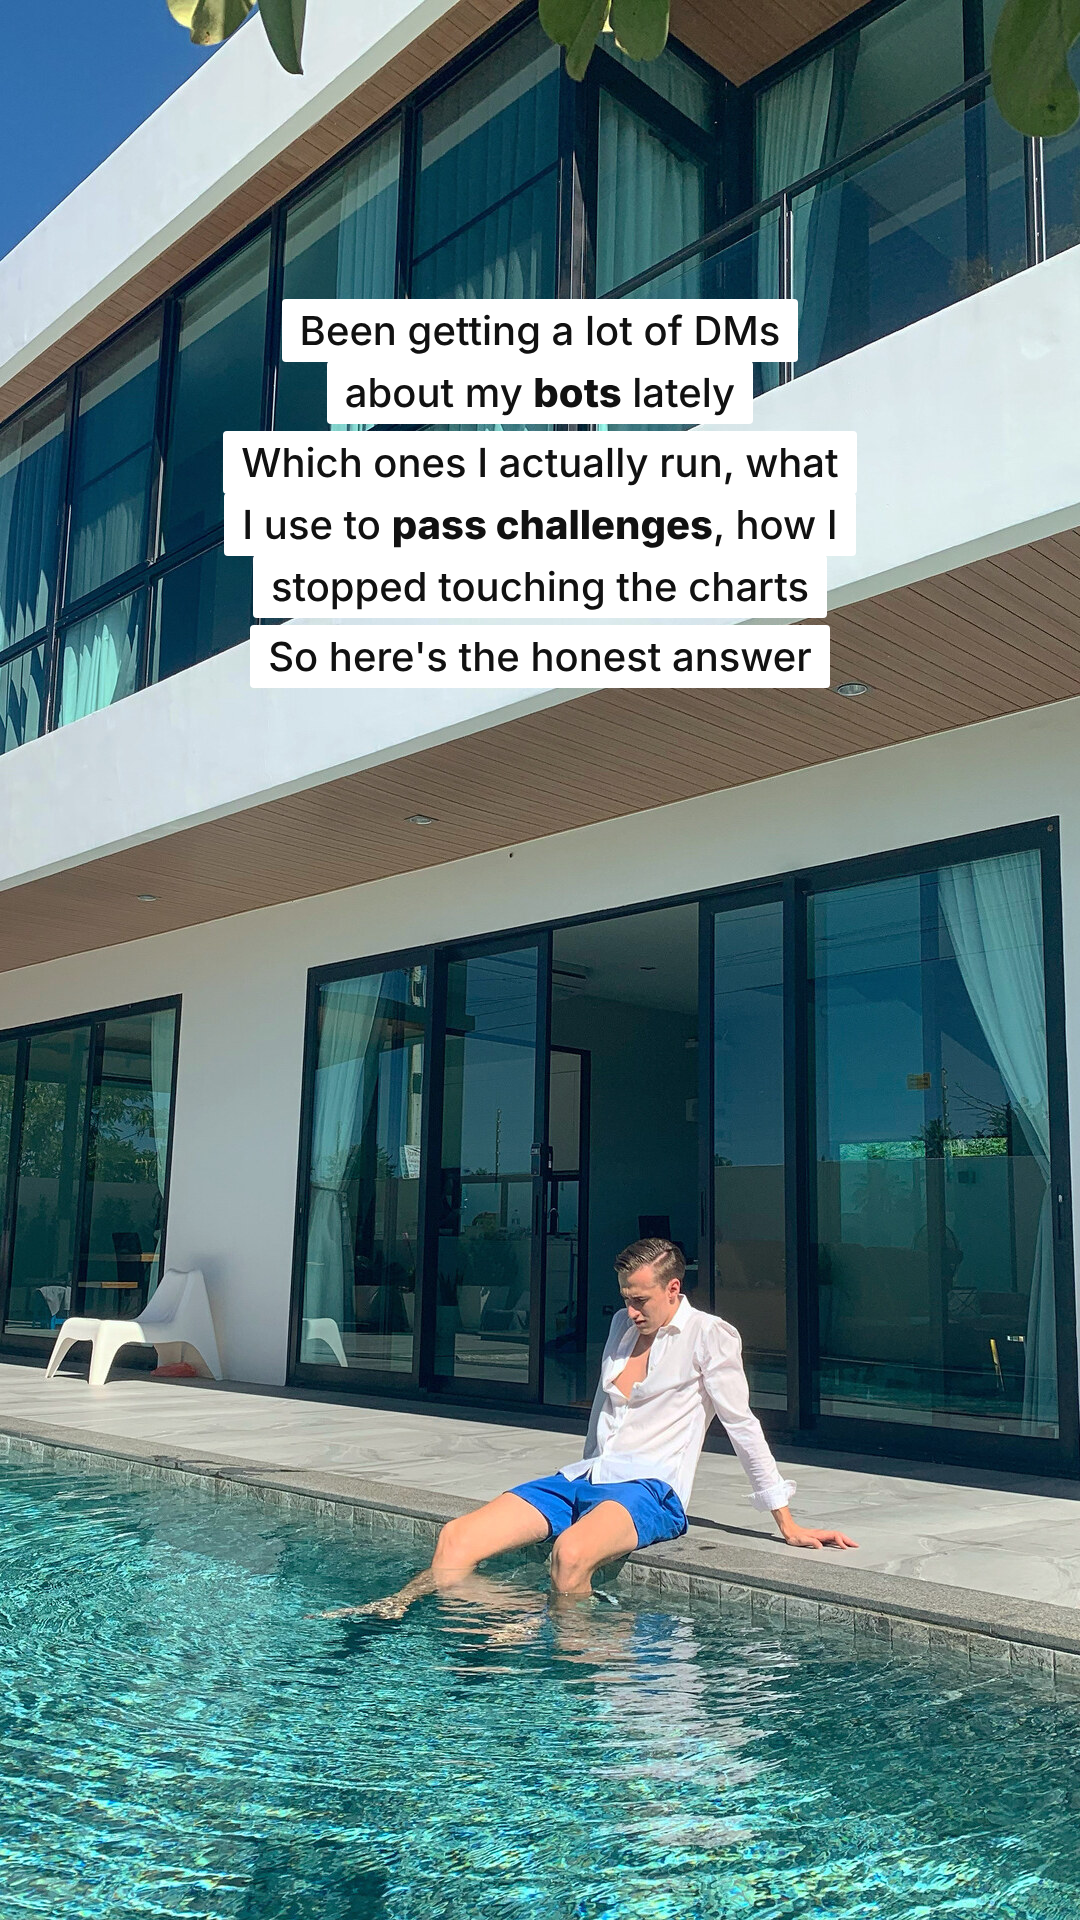
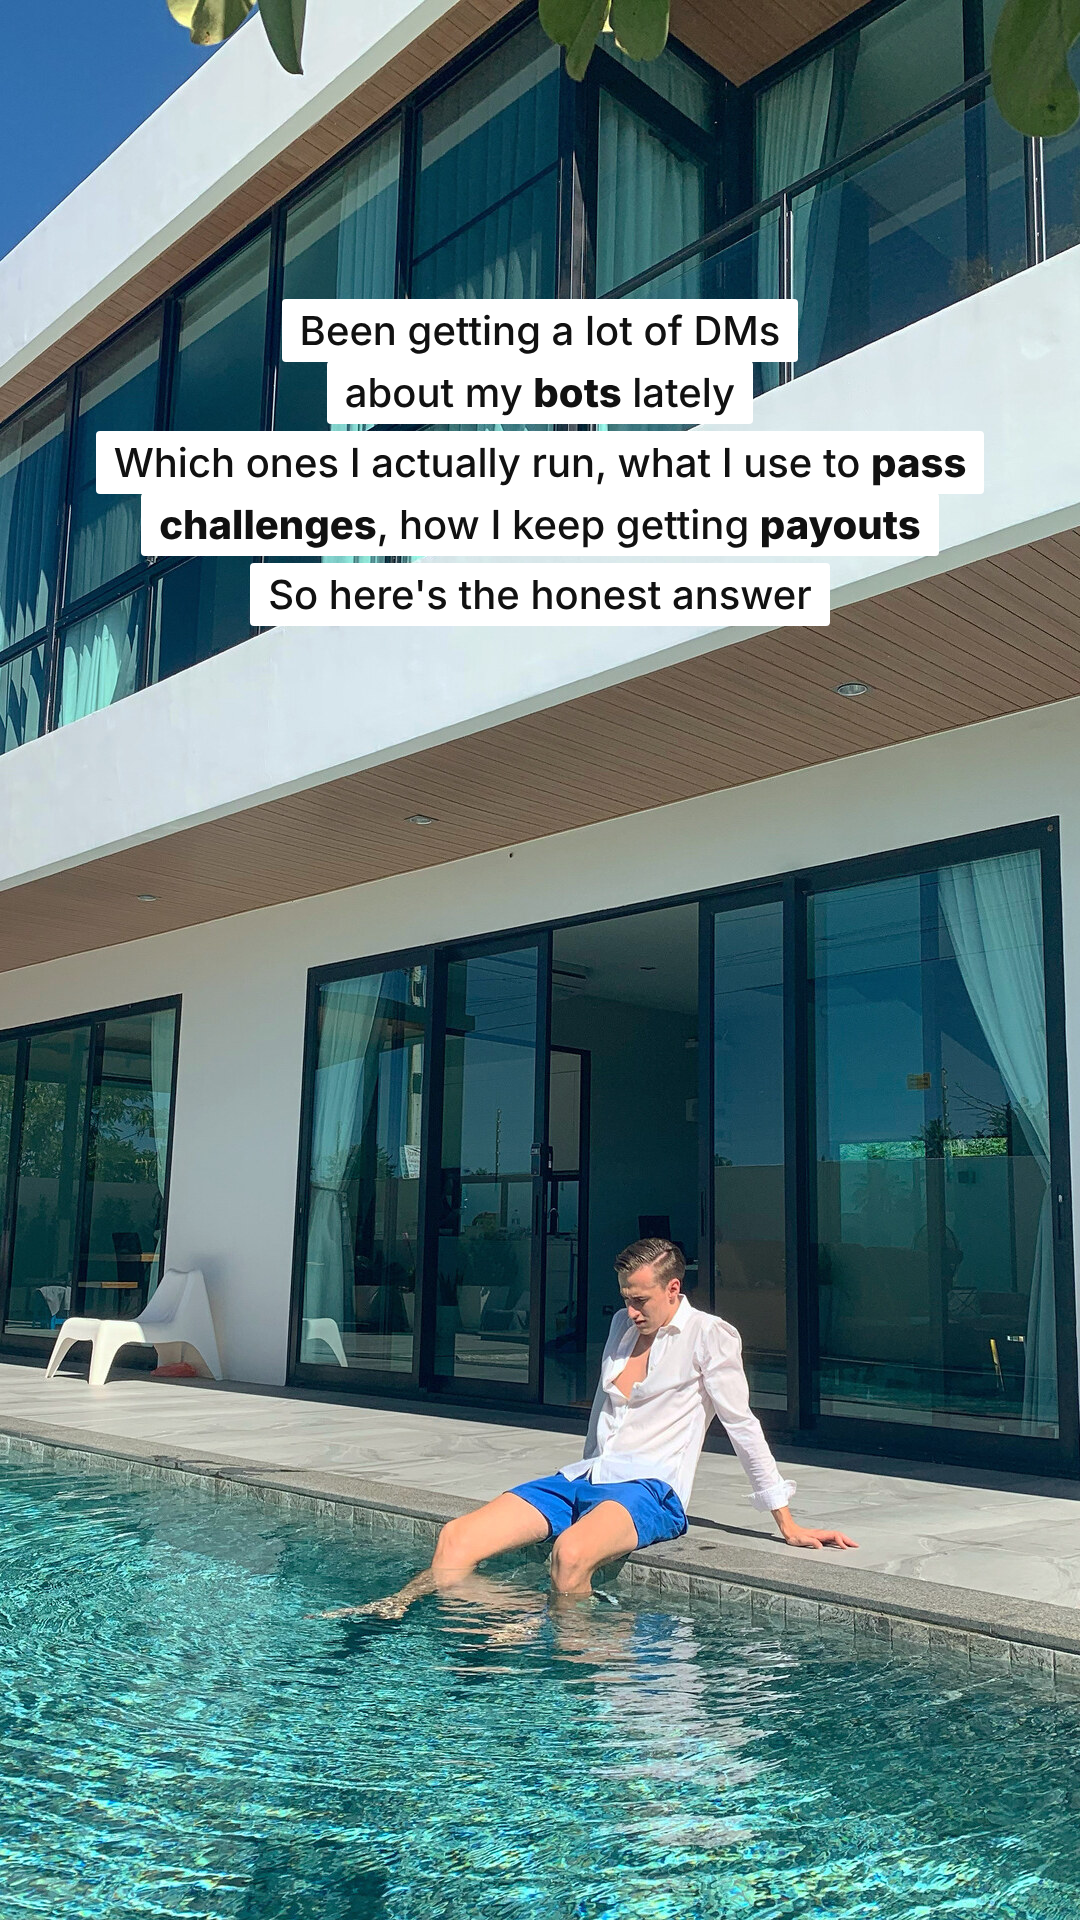
Bots sequence: payouts line on frame 1, crop Discord usernames off results
Claude-Session: https://claude.ai/code/session_015aTEPYQAHmzhiX45pd5jFL

Changed region(s): [[0.0917, 0.2188, 0.9167, 0.375]]

diff --git a/sequences/2026-11-23_soft_bots-i-use/frames/03.html b/sequences/2026-11-23_soft_bots-i-use/frames/03.html
@@ -3,9 +3,9 @@
 <div class="stack" style="top:290px">
 <div class="t"><span>These are the <b><em>same bots</em></b> everyone in the community is using to get <b>payouts</b> too</span></div>
 </div>
-<div class="card" style="left:60px;top:520px;width:470px"><img src="../../../03-backgrounds-larp/student-results/Screenshot 2569-11-13 at 11.26.11.png"></div>
+<div class="card" style="left:60px;top:520px;width:470px"><img src="../../../03-backgrounds-larp/student-results/Screenshot 2569-11-13 at 11.26.11.png" style="margin-top:-9%"></div>
 <div class="card" style="left:560px;top:520px;width:460px"><img src="../../../03-backgrounds-larp/student-results/member24.jpeg"></div>
-<div class="card" style="left:60px;top:960px;width:470px"><img src="../../../03-backgrounds-larp/student-results/member2.jpeg"></div>
-<div class="card" style="left:560px;top:920px;width:460px"><img src="../../../03-backgrounds-larp/student-results/member18.jpeg"></div>
+<div class="card" style="left:60px;top:960px;width:470px"><img src="../../../03-backgrounds-larp/student-results/member2.jpeg" style="margin-top:-9%"></div>
+<div class="card" style="left:560px;top:920px;width:460px"><img src="../../../03-backgrounds-larp/student-results/member18.jpeg" style="margin-top:-9%"></div>
 <div class="stack" style="top:1380px"><div class="t"><span>...the wins are <b><em>endless</em></b></span></div></div>
 </body></html>

diff --git a/sequences/2026-11-23_soft_bots-i-use/frames/02.html b/sequences/2026-11-23_soft_bots-i-use/frames/02.html
@@ -6,6 +6,6 @@
 <div class="t"><span>Because I didn't want to spend <b>hours</b> in front of the charts</span></div>
 <div class="t"><span><b>I wanted to make money <em>passively</em></b></span></div>
 </div>
-<div class="card" style="left:70px;top:1100px;width:450px"><img src="../../../03-backgrounds-larp/student-results/member6.jpeg"></div>
-<div class="card" style="left:560px;top:1100px;width:450px"><img src="../../../03-backgrounds-larp/student-results/member9.jpeg"></div>
+<div class="card" style="left:70px;top:1100px;width:450px"><img src="../../../03-backgrounds-larp/student-results/member6.jpeg" style="margin-top:-9%"></div>
+<div class="card" style="left:560px;top:1100px;width:450px"><img src="../../../03-backgrounds-larp/student-results/member9.jpeg" style="margin-top:-9%"></div>
 </body></html>

diff --git a/sequences/2026-11-23_soft_bots-i-use/frames/01.html b/sequences/2026-11-23_soft_bots-i-use/frames/01.html
@@ -2,6 +2,6 @@
 <div class="bg" style="background-image:url(../assets/pool.jpg);background-position:60% center"></div>
 <div class="stack" style="top:300px">
 <div class="t"><span>Been getting a lot of DMs about my <b>bots</b> lately</span></div>
-<div class="t"><span>Which ones I actually run, what I use to <b>pass challenges</b>, how I stopped touching the charts</span></div>
+<div class="t"><span>Which ones I actually run, what I use to <b>pass challenges</b>, how I keep getting <b>payouts</b></span></div>
 <div class="t"><span>So here's the honest answer</span></div>
 </div></body></html>
